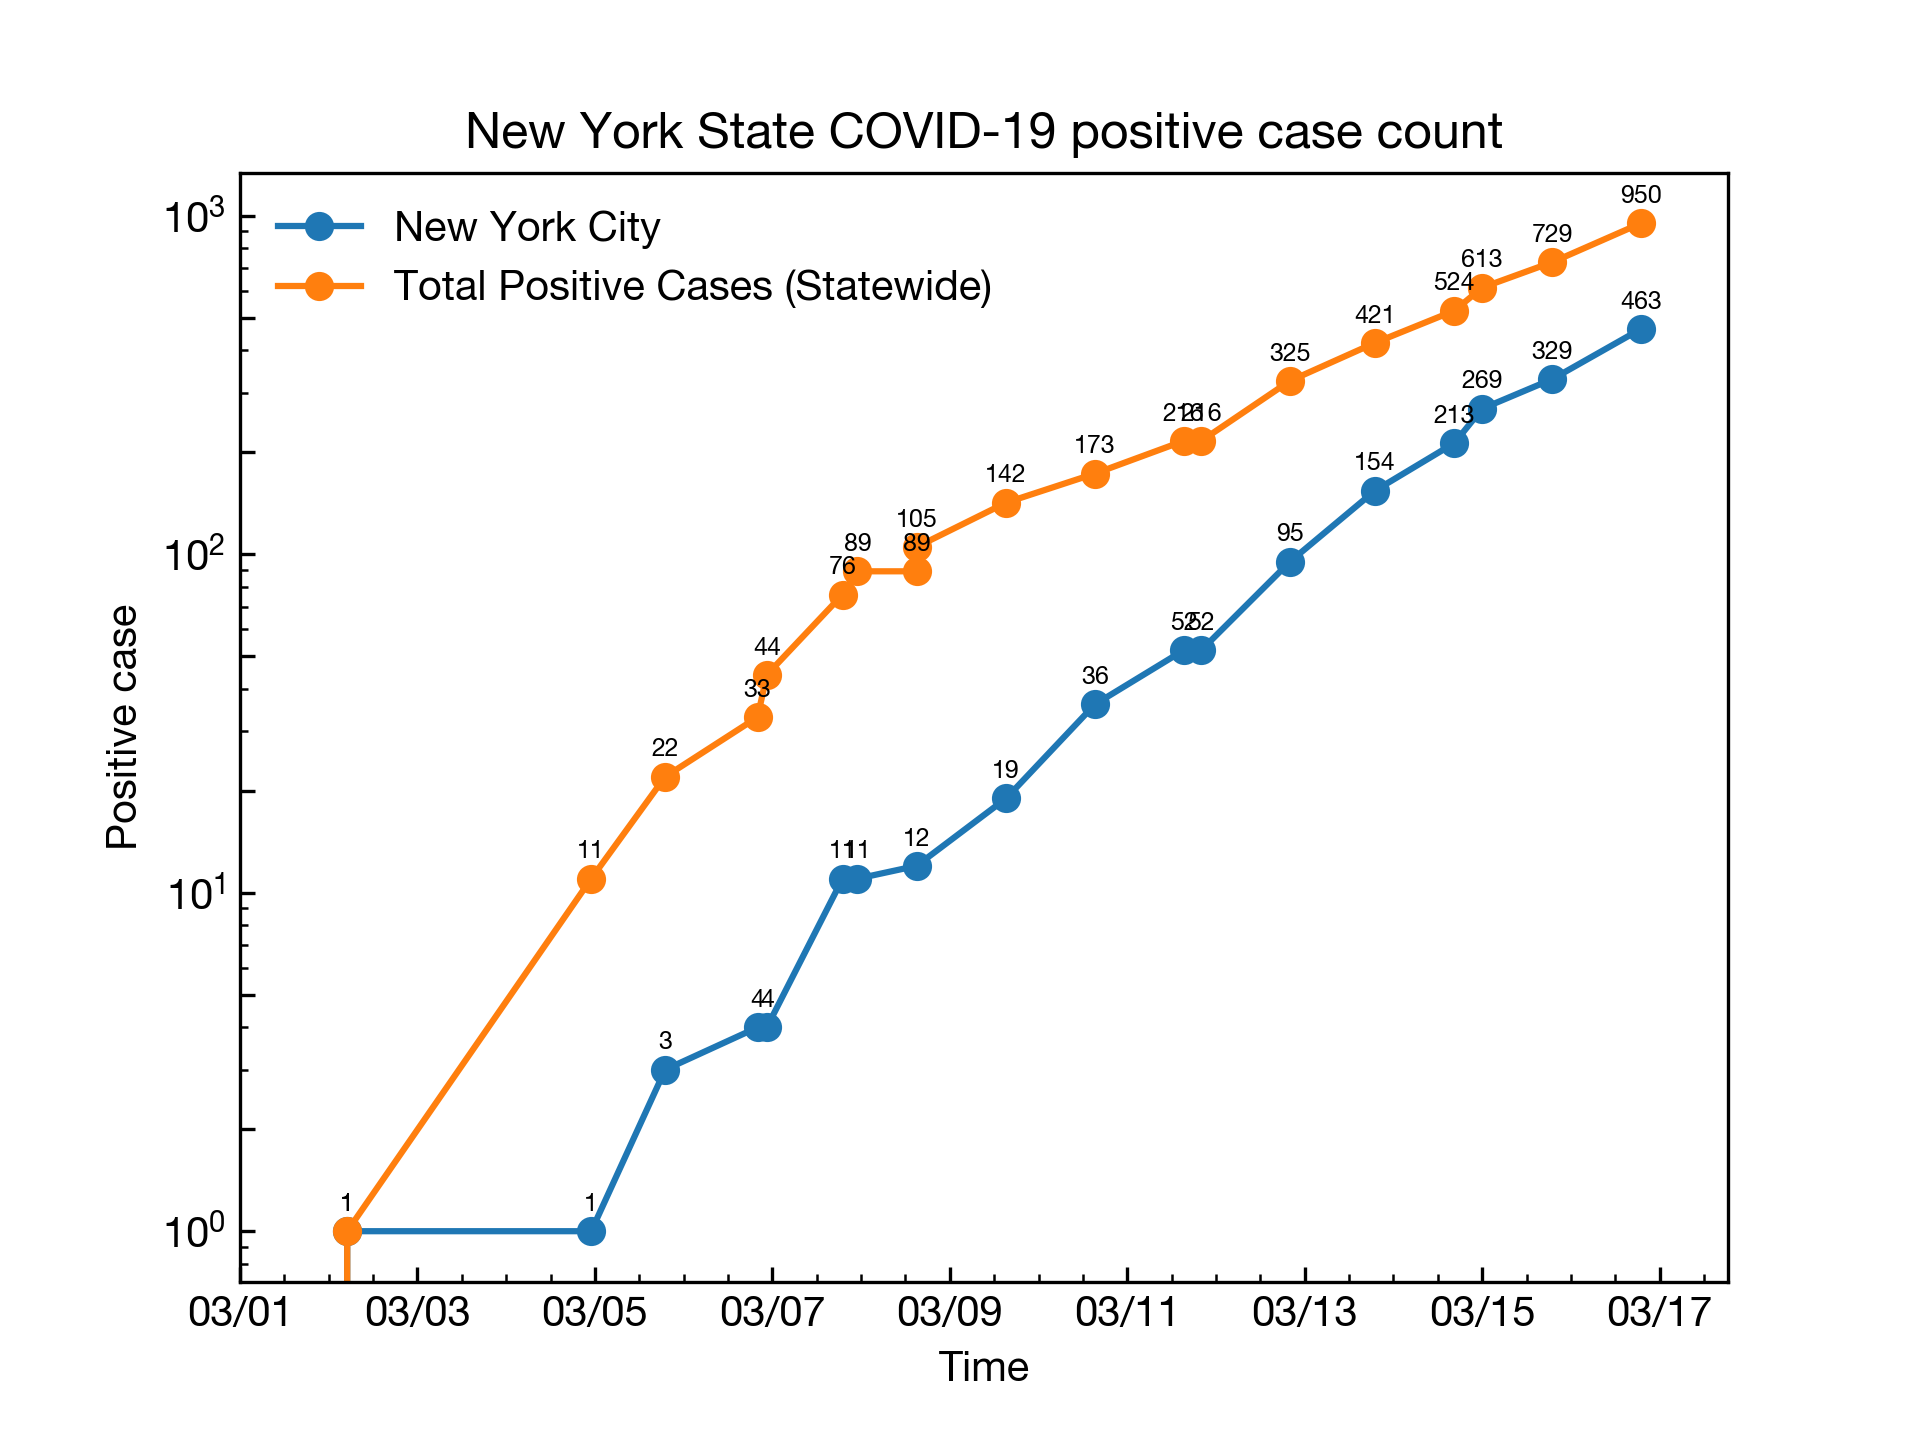
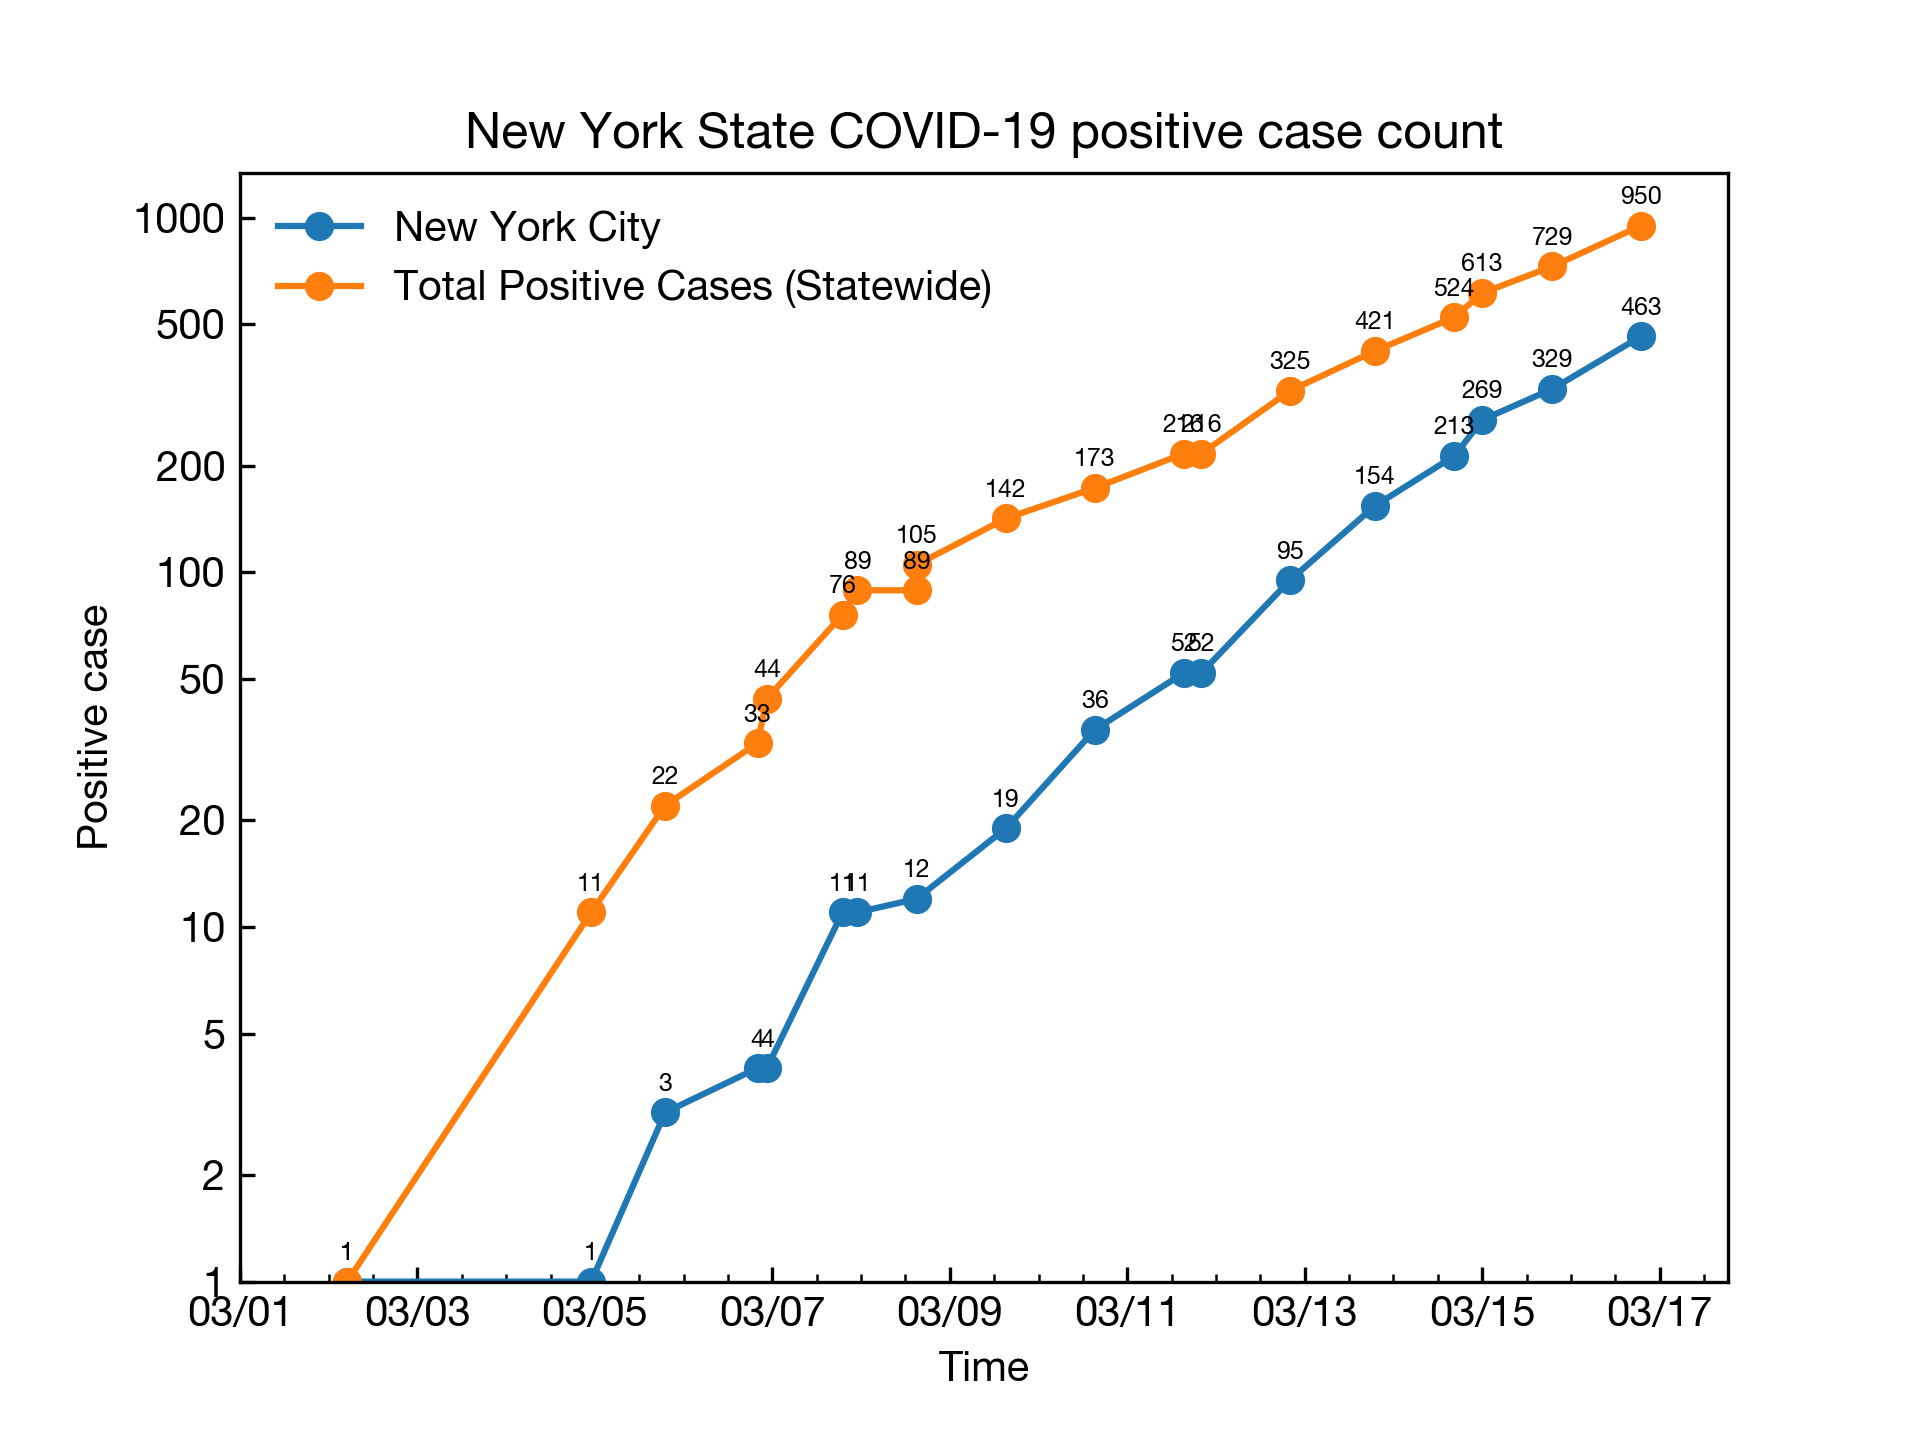
Adding a fancier plot

diff --git a/scripts/plot2.py b/scripts/plot2.py
@@ -3,6 +3,12 @@ import arrow
 import numpy
 import re
 
+def calc_doubling_date(x_array, y_array):
+    delta = numpy.log(2) / (numpy.log(y_array[-1]) - numpy.log(y_array[-2])) * (x_array[-1] - x_array[-2])
+    return delta.days + delta.seconds / 86400
+
+import si_prefix
+
 from matplotlib.ticker import LogFormatter
 
 with open("data/dataset.json") as fp:
@@ -60,11 +66,19 @@ for area_name in list(number_by_area.keys()):
     if len(number_by_area[area_name]) == 0:
         del number_by_area[area_name]
 
+print(number_by_area.keys())
+
 from matplotlib import pyplot as plt
+
 
 plt.figure()
 
-for area_name in ["New York City", "Total Positive Cases (Statewide)"]:
+for area_name in number_by_area.keys():
+
+    print(area_name)
+
+    if area_name in {"New York State(Outside of NYC)", "New York City(NYC)", "New York State (Outside of NYC)", "Positive Cases"}:
+        continue
 
     data = number_by_area[area_name]
 
@@ -73,18 +87,33 @@ for area_name in ["New York City", "Total Positive Cases (Statewide)"]:
 
     x_array, y_array = zip(*sorted(zip(x_array, y_array), key=lambda  item: (item[0], item[1])))
 
-    #print(x_array)
+    if max(y_array) < 50: continue
 
-    plt.plot_date(x_array, y_array, marker="o", linestyle="-", label=area_name)
+    color = None 
+    linewidth = 1.5
+    if area_name == "Total Positive Cases (Statewide)":
+        area_name = "Statewide total"
+        color = "#666666"
+        linewidth = 2.5
+
+    line, = plt.plot_date(x_array, y_array, marker="o", linestyle="-", label=area_name, linewidth=linewidth, color=color)
 
     for x, y in zip(x_array, y_array):
+        if y < 10: continue
+        plt.text(x, y*1.1, str(y), va="bottom", ha="center", size=6, c=line.get_color())
 
-        plt.text(x, y * 1.2, str(y), va="center", ha="center", size=6)
+    # print(calc_doubling_date(x_array, y_array))
+    plt.text(x_array[-1].shift(days=.5), y_array[-1], area_name, va="bottom", ha="left", size=6, c=line.get_color(), fontsize=8, fontweight="bold")
+    plt.text(x_array[-1].shift(days=.5), y_array[-1] / 1.03, f"Double every {calc_doubling_date(x_array, y_array):.1f} days", va="top", ha="left", size=6, c="k")
+
+for sname in ["top", "right"]:
+    spine = plt.gca().spines[sname]
+    spine.set_visible(False)
 
 plt.semilogy()
 
 plt.xlabel("Time")
-plt.ylabel("Positive case")
+plt.ylabel("Positive cases")
 
 from matplotlib.dates import AutoDateLocator, DateFormatter
 from matplotlib.ticker import LogLocator, NullLocator, LogFormatter
@@ -97,11 +126,13 @@ plt.gca().yaxis.set_major_formatter(LogFormatter(labelOnlyBase=False, minor_thre
 plt.gca().yaxis.set_minor_locator(NullLocator())
 
 
-plt.title("New York State COVID-19 positive case count")
+#plt.title("New York State COVID-19 positive case count (county with > 100 cases)")
 
-plt.xlim(left=arrow.get("2020-03-01"))
-plt.ylim(bottom=1)
+plt.xlim(left=arrow.get("2020-03-03"))
+plt.xlim(right=1.05*(plt.xlim()[1] - plt.xlim()[0])+plt.xlim()[0])
+plt.ylim(bottom=10)
 
-plt.legend()
+# plt.legend()
+plt.tight_layout()
 
-plt.savefig("plots/NYState.png", dpi=300)
+plt.savefig("plots/NYState2.png", dpi=300)

diff --git a/README.md b/README.md
@@ -5,21 +5,17 @@ Positive cases tracker for New York State.
 ## Result
 
 ![](plots/NYState.png)
+![](plots/NYState2.png)
 
 ## Usage
 
 ### Update
 
 ```bash
-python3 update_v4.py
-python3 parse_v4.py
+make update
+make upload
 ```
 
-### Plot
-
-```bash
-python3 plot.py
-```
 
 ## Dependencies
 
